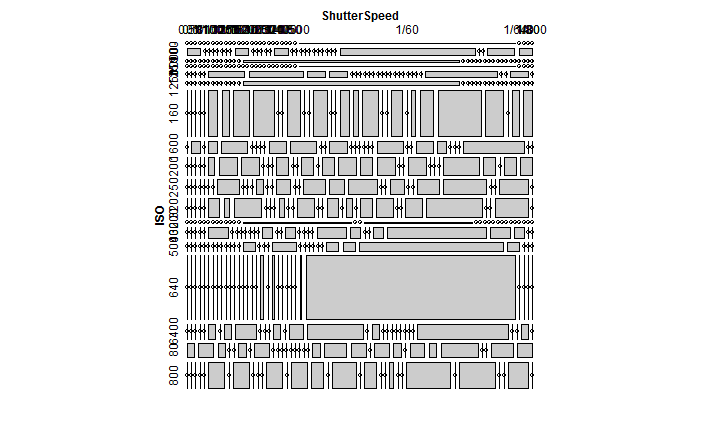
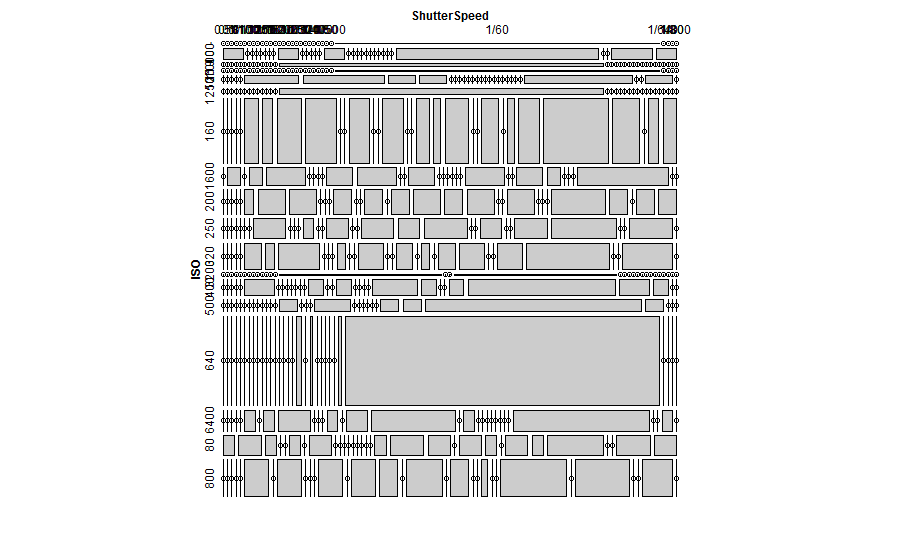
close to postable version

Changed region(s): [[0.2139, 0.0, 0.7639, 0.9329]]

diff --git a/exif/index.html b/exif/index.html
@@ -137,6 +137,7 @@ img.df[,4] &lt;- as.Date(#as.POSIXct(
 
 <pre><code class="r">img.df$id = 1:NROW(img.df)
 require(vcdExtra)
+x11(width = 20, height = 12)
 mosaic(structable(img.df[,c(1,2)]))
 </code></pre>
 
@@ -205,11 +206,11 @@ r1 &lt;- catCorrPlot(questions, responses)
 r1$show(&quot;inline&quot;)
 </code></pre>
 
-<div id = 'chart1ce01ece60c9' class = 'rChart catcorrjs'></div>
+<div id = 'chart1ce038ab52cf' class = 'rChart catcorrjs'></div>
 
 <script type='text/javascript'>
-var ccchart1ce01ece60c9 = catcorr("#chart1ce01ece60c9", {
- "dom": "chart1ce01ece60c9",
+var ccchart1ce038ab52cf = catcorr("#chart1ce038ab52cf", {
+ "dom": "chart1ce038ab52cf",
 "width":    800,
 "height":    400,
 "questions": [
@@ -3004,7 +3005,7 @@ var ccchart1ce01ece60c9 = catcorr("#chart1ce01ece60c9", {
 "3": "1/60" 
 } 
 ],
-"id": "chart1ce01ece60c9" 
+"id": "chart1ce038ab52cf" 
 });
 </script>
 

diff --git a/exif/index.md b/exif/index.md
@@ -110,6 +110,7 @@ EXIF information is categorical data.  R users are fortunate to have the very fi
 ```r
 img.df$id = 1:NROW(img.df)
 require(vcdExtra)
+x11(width = 20, height = 12)
 mosaic(structable(img.df[,c(1,2)]))
 ```
 
@@ -184,10 +185,10 @@ r1$show("inline")
 ```
 
 
-<div id = 'chart1ce01ece60c9' class = 'rChart catcorrjs'></div>
+<div id = 'chart1ce038ab52cf' class = 'rChart catcorrjs'></div>
 <script type='text/javascript'>
-var ccchart1ce01ece60c9 = catcorr("#chart1ce01ece60c9", {
- "dom": "chart1ce01ece60c9",
+var ccchart1ce038ab52cf = catcorr("#chart1ce038ab52cf", {
+ "dom": "chart1ce038ab52cf",
 "width":    800,
 "height":    400,
 "questions": [
@@ -2982,7 +2983,7 @@ var ccchart1ce01ece60c9 = catcorr("#chart1ce01ece60c9", {
 "3": "1/60" 
 } 
 ],
-"id": "chart1ce01ece60c9" 
+"id": "chart1ce038ab52cf" 
 });
 </script>
 
